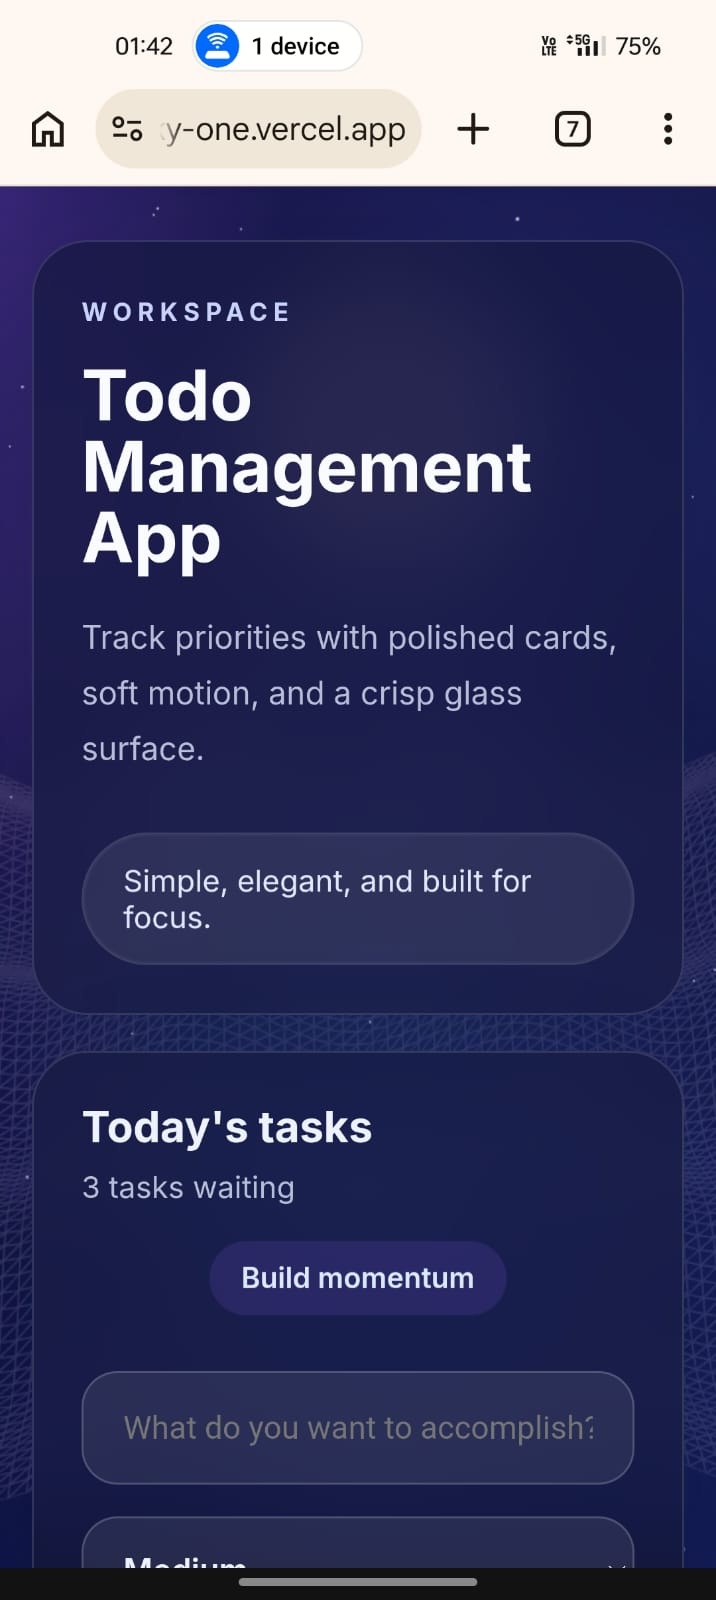
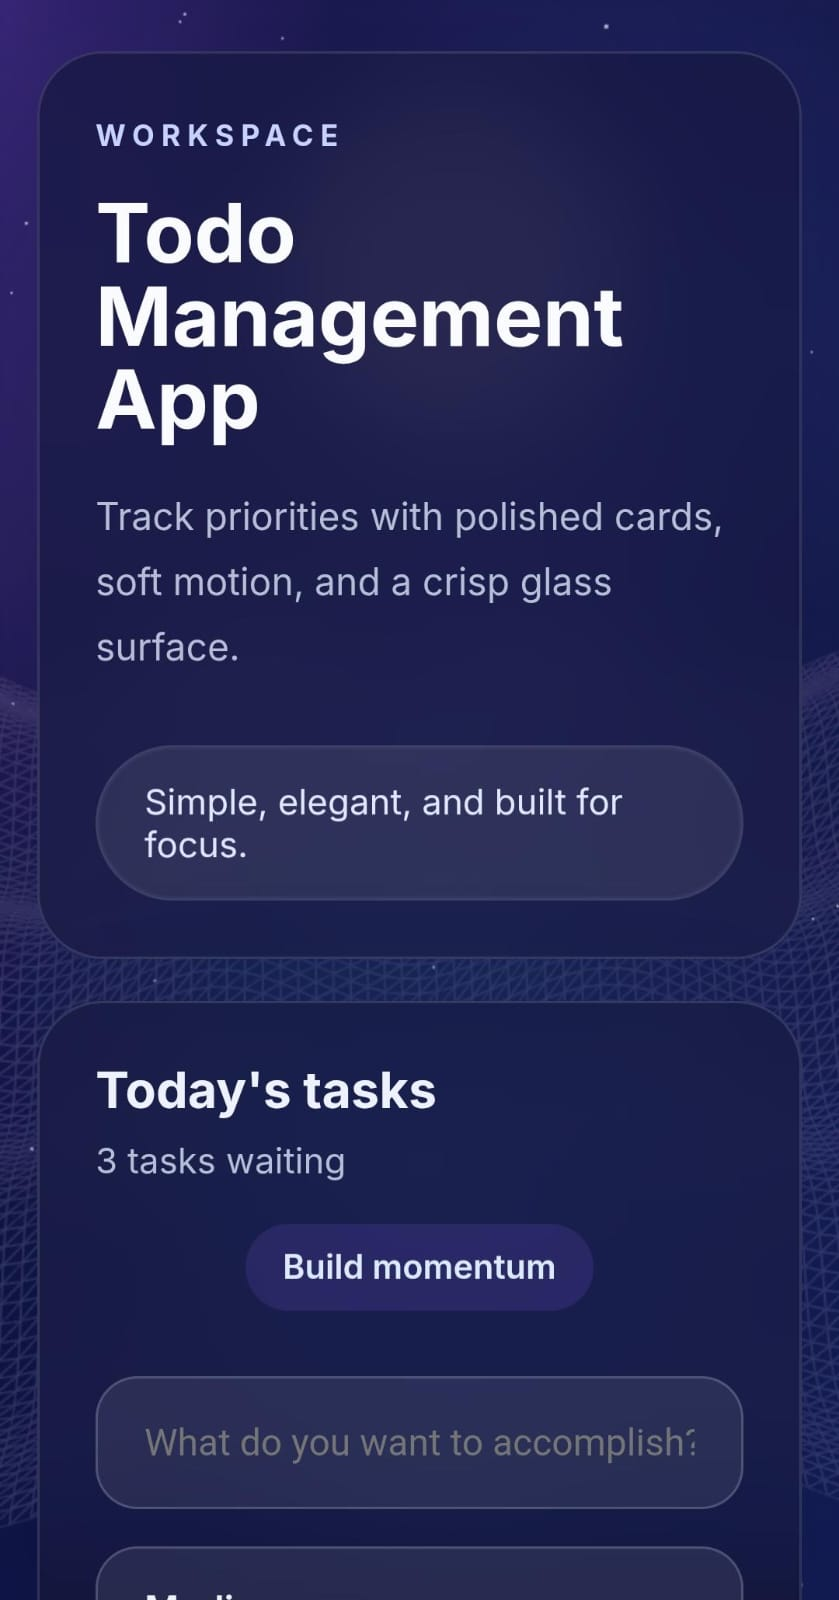
docs: improve README layout and project preview

diff --git a/README.md b/README.md
@@ -22,11 +22,9 @@ https://todo-project-inky-one.vercel.app/
 
 ## 📸 Screenshots
 
-### Desktop
-![Desktop Preview](assets/desktop-preview.png)
-
-### Mobile
-![Mobile Preview](assets/mobile-preview.png)
+| Desktop | Mobile |
+|---------|--------|
+| <img src="assets/desktop-preview.png" width="700"> | <img src="assets/mobile-preview.png" width="220"> |
 
 ---
 
